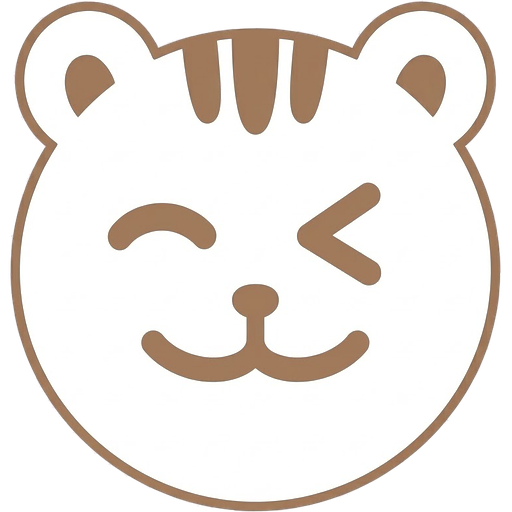
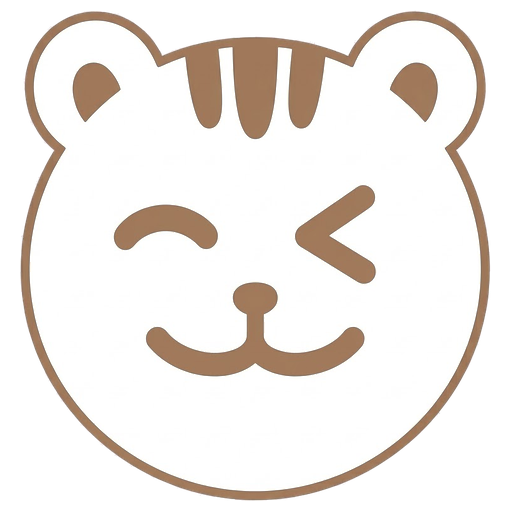
v1.23.2 根治中心图标绘制异常：资源按 95.8% 填充率重烘焙（不触画布边缘），content:url 换图改双 img + display 切换，尺寸回 76%（耳尖深度与校准值一致）

diff --git a/index.html b/index.html
@@ -273,8 +273,8 @@
      缝隙只出现在「两段都非零」的相邻处，单一档位占满时不留缝（否则整圆会断开）。 */
   /* 层级（自下而上）：.md-ring z-index:1 → .md-ham z-index:3；父级 isolation:isolate
      建立独立层叠上下文，中心图标严格叠在全部扇区之上。
-     贴纸式叠压：图标 73%（盒半宽 36.5 用户单位）—— wink 仓鼠耳尖径向达盒半宽的 1.25 倍（≈45.6），
-     脸侧 0.97 倍（≈35.3）→ 耳朵与脸侧都越过环内径 32 压在扇区上，形成前后分层；
+     贴纸式叠压：图标 76%（盒半宽 38 用户单位）—— wink 仓鼠耳尖径向达盒半宽的 1.20 倍（≈45.6），
+     脸侧 0.93 倍（≈35.3）→ 耳朵与脸侧都越过环内径 32 压在扇区上，形成前后分层；
      耳尖 < 环外径 48 且留 ≥2 单位余量，故不会触到或溢出整个环。
      落在环面上的柔和投影（drop-shadow）把图标从环面「抬起来」，是叠压成立的关键。 */
   .mastery-donut {
@@ -302,31 +302,30 @@
   .mastery-donut.is-hot .md-seg { opacity: .3; }
   .mastery-donut.is-hot .md-seg.hot { opacity: 1; stroke-width: 22; }
   /* 中心仓鼠：绝对居中 + 最高层级；不设任何底色 / 底座（无底边），图片自身为透明底。
-     73% 使其外接半径越过环内径 → 贴纸式压在扇区上（见上方几何注释）；wink 仓鼠轮廓
-     比旧图更「满」（耳尖 1.25×盒半宽 vs 旧 1.195×），73% 即达到与旧图 76% 相同的耳尖深度。
-     五官色分两版资源（v1.23.0 起，替换 v1.22.0 的 wink 前旧画）：浅色版深暖棕（浅底上需要
-     更高对比）、深色版中浅暖棕（避免纯黑「显凶」）。头顶三条竖毛为实心笔画（v1.22.1 遗留的
-     「竖毛空心」问题随换图一并解决）。 */
+     76% 使其外接半径越过环内径 → 贴纸式压在扇区上（见上方几何注释）；wink 仓鼠资源
+     按 95.8% 填充率烘焙（内容不触画布边缘），76% 时耳尖 ≈45.6u，与 v1.22 旧画同深度。
+     浅/深两版是**两个独立 <img>**（v1.23.2）：用 display 切换、无 content:url 换图——
+     content:url 换图在本环境触发 Chromium 绘制异常（见 1.23.1/1.23.2 记录），且双 img
+     两张都提前加载，深色切换零时序问题。头顶三条竖毛为实心笔画（v1.22.1 遗留问题随换图解决）。 */
   .md-ham {
     position: absolute;
     inset: 0;                                /* 上/右/下/左全 0 + margin:auto → 严格居中 */
     margin: auto;
     z-index: 3;                              /* 高于扇区（1）→ 层叠最上层 */
-    width: 73%; height: 73%;                 /* 父级正方形 → 百分比宽高相等，等比不拉伸；73% = 耳尖校准值 */
+    width: 76%; height: 76%;                 /* 父级正方形 → 百分比宽高相等，等比不拉伸 */
     object-fit: contain;                     /* 兜底：极端比例也不变形 */
     pointer-events: none;                    /* 不拦截扇区交互（层级仍最高） */
     /* 柔和投影分层：把图标从环面上「抬起来」，否则白脸贴在彩色扇区上会显得扁平 */
     filter: drop-shadow(0 2px 4px rgba(0, 0, 0, .24)) drop-shadow(0 1px 1px rgba(0, 0, 0, .10));
-    content: url("hamster-md-light.png");    /* 浅色模式：深暖棕五官 */
-    /* v1.23.1：弃用 translate(-50%,-50%) 居中 —— 该写法在线上触发 Chromium 绘制异常
-       （此 img 被按父容器尺寸而非自身盒绘制，巨幅溢出环形图；headless 实测复现，
-       去掉 transform 立即恢复）。inset:0 + margin:auto 是无 transform 的等效居中。 */
+    /* v1.23.1/1.23.2：弃用 translate(-50%,-50%) 居中与 content:url 换图 —— 两者在线上
+       触发 Chromium 对该 img 的绘制异常（按父容器尺寸绘制/纵向截断；headless 实测复现）。
+       inset:0 + margin:auto 是无 transform 的等效居中；主题切换改由双 img + display 承担。 */
   }
+  .md-ham.md-ham-dark { display: none; }
   /* 深色底上深投影不可见，但图标边缘仍压在彩色环带上，需保留可辨的分离感 */
-  [data-theme="dark"] .md-ham {
-    filter: drop-shadow(0 2px 5px rgba(0, 0, 0, .62));
-    content: url("hamster-md-dark.png");     /* 深色模式：中浅暖棕五官，避免纯黑过刚 */
-  }
+  [data-theme="dark"] .md-ham { filter: drop-shadow(0 2px 5px rgba(0, 0, 0, .62)); }
+  [data-theme="dark"] .md-ham.md-ham-light { display: none; }
+  [data-theme="dark"] .md-ham.md-ham-dark { display: block; }
   .md-tip {
     height: 22px;                            /* 固定高提示槽：出现 / 消失都不改变布局 */
     line-height: 22px; margin-top: 6px;
@@ -805,7 +804,8 @@
           <path class="md-seg seg-remember" id="segRemember" data-grade="记得" d=""></path>
           <path class="md-seg seg-easy" id="segEasy" data-grade="简单" d=""></path>
         </svg>
-        <img class="md-ham" src="hamster-md-light.png" alt="">
+        <img class="md-ham md-ham-light" src="hamster-md-light.png" alt="">
+        <img class="md-ham md-ham-dark" src="hamster-md-dark.png" alt="">
       </div>
       <div class="md-tip" id="mdTip"></div>
       <div class="done-legend">
